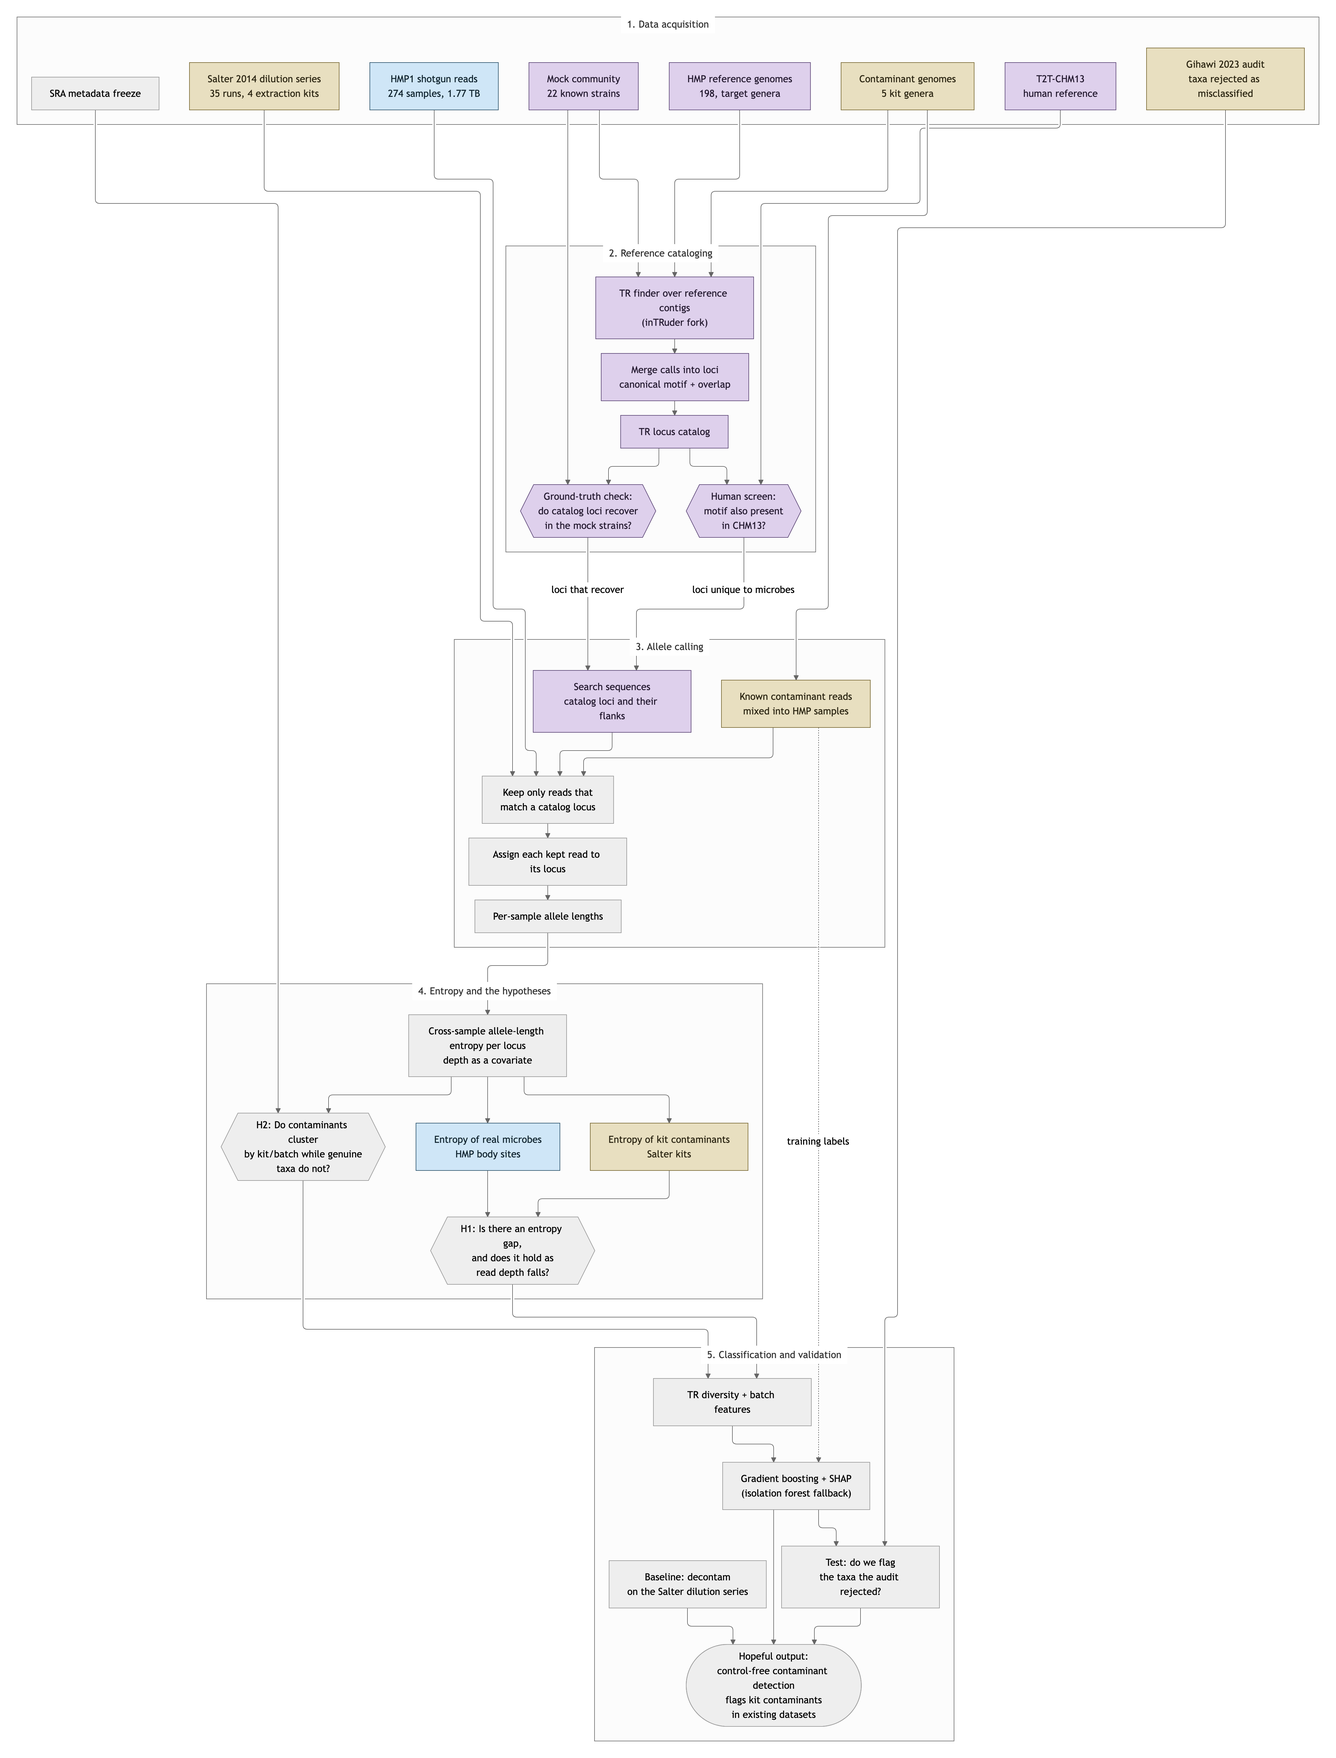
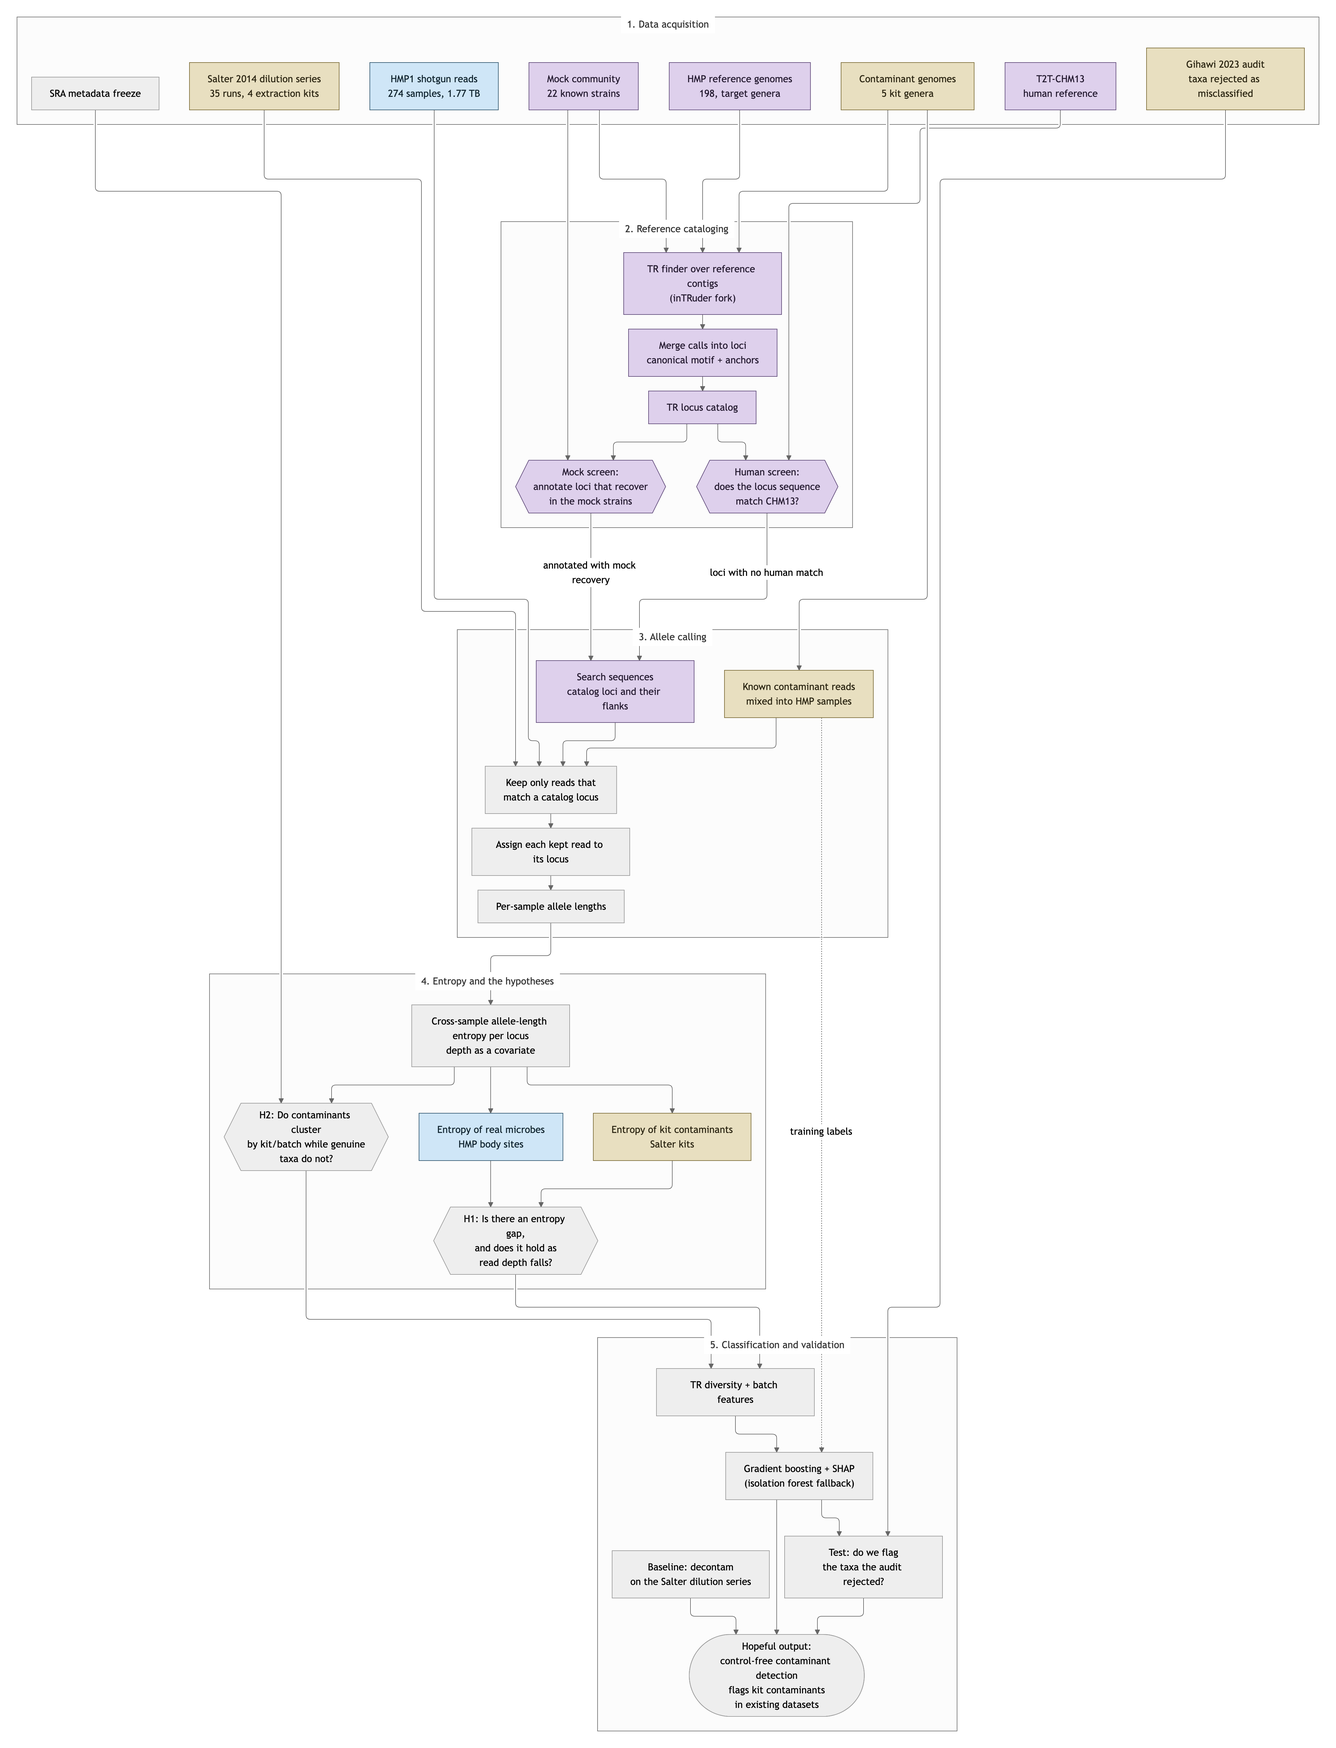
Docs: describe the catalog part and the mock screen as annotation

diff --git a/docs/workflows/pipeline/README.md b/docs/workflows/pipeline/README.md
@@ -1,9 +1,10 @@
 # The pipeline stage
 
-`--stage pipeline` is the analysis. Its first part streams the HMP1 shotgun reads from S3
-through a k-mer gate built from the TR catalog and keeps only the reads that touch a
-locus, plus per-sample read counts. Allele calling, the stutter model and everything after
-read that output; none of them exists yet (`docs/todo.md` §3).
+`--stage pipeline` is the analysis. Its first part, `catalog`, builds the panel of tandem
+repeat loci the gate looks for. Its second, `filter`, streams the HMP1 shotgun reads from
+S3 through a k-mer gate built from that panel and keeps only the reads that touch a locus,
+plus per-sample read counts. Allele calling, the stutter model and everything after read
+that output; none of them exists yet (`docs/todo.md` §3).
 
 ```sh
 pixi run pipeline --stage pipeline -profile slurm,apptainer --slurm_queue shared
@@ -41,12 +42,21 @@ Two properties of the tarballs shape the pipe:
 
 ## Modules
 
-| Process          | Image     | Does                                              | Publishes                          |
-| ---------------- | --------- | ------------------------------------------------- | ---------------------------------- |
-| `TR_CATALOG`     | `catalog` | The TR catalog, unless `--loci_catalog` names one | `results/filter/tr-catalog.tsv`    |
-| `TR_LOCI`        | `catalog` | Catalog loci ± `--filter_flank` bp → gate FASTA  | `results/filter/tr-loci.fa`        |
-| `TR_FILTER`      | `filter`  | One sample: stream, gate, write                   | `results/filter/{reads,counts}/`   |
-| `FILTER_SUMMARY` | `filter`  | Every sample's counts in one table                | `results/filter/filter-summary.tsv` |
+| Process          | Image     | Does                                                         | Publishes                                   |
+| ---------------- | --------- | ------------------------------------------------------------ | ------------------------------------------- |
+| `TR_CATALOG`     | `catalog` | One task per `--panel_specs` spec: its TR catalog and BED   | `results/catalog/tr-catalog.<spec>.{tsv,bed}` |
+| `TR_LOCI`        | `catalog` | Merge the catalogs into loci; anchors; padded FASTA          | `results/catalog/{tr-loci.tsv,tr-loci.fa,tr-loci-stats.tsv}` |
+| `TR_SCREEN`      | `filter`  | Screen the loci against a genome spec (run as two aliases)   | `results/catalog/<spec>.screen.tsv`         |
+| `TR_PANEL`       | `filter`  | Drop human-screened loci, annotate with the mock screen      | `results/catalog/{tr-panel.tsv,tr-panel.fa}` |
+| `TR_FILTER`      | `filter`  | One sample: stream, gate, write                              | `results/filter/{reads,counts}/`            |
+| `FILTER_SUMMARY` | `filter`  | Every sample's counts in one table                           | `results/filter/filter-summary.tsv`         |
+
+```
+catalog : TR_CATALOG (one task per panel spec) ─┐
+          TR_LOCI (merge + anchors + FASTA) ◄───┘
+          TR_SCREEN ×2 (chm13 = exclude, hmp-mock = annotate) → TR_PANEL
+filter  : TR_FILTER (one task per HMP sample, gate = tr-panel.fa) → FILTER_SUMMARY
+```
 
 The filter itself is three processes, which is as far as it divides. The one boundary that
 must not exist is between decompressing and gating, because a process emitting
@@ -54,25 +64,80 @@ decompressed FASTQ parks ~25 GB per sample in `work/`.
 
 ### `TR_CATALOG`
 
-The preprocessing stage's process (`docs/workflows/preprocess/`), run here with the same
-`catalog_*` parameters. The catalog is not committed, because its parameters are still
-being swept, so a clean clone has none. The stage builds it itself rather than depending on
-an earlier run. `--loci_catalog <tsv>` skips this and uses a catalog that already exists.
-The catalog is published beside the reference, so the reads can always be traced to the
-loci they were gated against.
+The preprocessing stage's process (`docs/workflows/preprocess/`), run here once per spec
+in `--panel_specs` with the same `catalog_*` parameters. Each task carries its own output
+names, `tr-catalog.<spec>.tsv` and `.bed`, so the specs do not publish over each other.
+Genomes are named by `--name-from auto`: a spec of the `hmp` dataset by directory (the
+organism is in the directory and the file name is an accession), any other by file (one
+genome per file, as slacken and CHM13 arrive).
 
 ### `TR_LOCI`
 
-Syncs the genomes of `--catalog_spec`, writes each locus of the catalog with
-`--filter_flank` bases either side, and deletes the genomes. The same sync, reduce, delete
-shape as `TR_CATALOG`, and the same genome naming, so each catalog row finds its FASTA.
-Genomes are read through inTRuder's `read_fasta`, the reader the catalog was built with, so
-the contig names agree by construction.
+Syncs the genomes of every panel spec, lists them with `genomes`, runs `loci` over all the
+catalogs at once, and deletes the genomes. The same sync, reduce, delete shape as
+`TR_CATALOG`, and the same genome naming, so each catalog row finds its FASTA. Genomes are
+read through inTRuder's `read_fasta`, the reader the catalogs were built with, so the
+contig names agree by construction.
 
-It is its own process, rather than a third output of `TR_CATALOG`, because the flank width
-belongs to the filter: the reference will be rebuilt more often than the catalog, and that
-should not rerun the finder. Records that come out byte-identical are written once. That
-keeps the k-mer table small; it is not the §2 locus merge.
+It is its own process because the merge needs every spec's calls together, and because
+`--filter_flank`, `--loci_anchor` and `--loci_max_rep_length` belong to the gate: it is
+rebuilt more often than the catalogs, and that should not rerun the finder. What `loci`
+does to turn calls into loci:
+
+- **Within a genome**, calls on one contig whose gap is smaller than `--loci_anchor` become
+  one locus spanning their union, so each anchor is free of called repeat. The locus
+  records `n_calls` and the canonical motifs of its calls; its motif is the canonical motif
+  of its longest call.
+- **Anchors** are the `--loci_anchor` bases immediately either side of the locus. A locus
+  whose anchor runs off its contig is dropped.
+- **Across genomes**, loci with the same canonical motif and anchor pair are one group and
+  share a `locus_id` (`L000001`, numbered in sorted key order, so a rerun gives the same
+  ids). The canonical motif folds rotation and reverse complement. The anchor pair is
+  oriented to the lexicographically smaller of `(left, right)` and
+  `(rc(right), rc(left))`, so a locus on the other strand lands in the same group.
+- **Too long to span:** a group whose longest member is longer than
+  `--loci_max_rep_length` is dropped. A 100 bp read minus two 20 bp anchors spans about 60
+  bp (see "A limit worth knowing").
+- Records that come out byte-identical within a group are written once, which keeps the
+  gate's k-mer table small.
+
+`tr-loci.tsv` has one row per member (`locus_id, spec, genome, contig, start, end, motif,
+motif_length, rep_length, purity, n_calls, motifs, left_anchor, right_anchor`), so a group
+has exactly one anchor pair. `tr-loci.fa` pads each member by `--filter_flank` bases, with
+headers `>{locus_id}|{genome}|{contig}:{left}-{right}`. `tr-loci-stats.tsv` counts calls,
+merged regions, edge drops, too-long groups, groups and members, in total and per spec.
+
+### `TR_SCREEN`
+
+Cuts one spec's genomes into `--screen_fragment` bp fragments overlapping by
+`--screen_overlap` (`shred.sh`) and runs them through the same BBDuk match that gates the
+reads, at `--filter_k` and `--filter_hdist`. So a locus a fragment hits is a locus a read
+of that genome would pass the gate through. `bbduk.sh rename=t` appends each matched
+reference, with its k-mer hit count, to the fragment's header, tab separated:
+
+```
+>chrT desc_100-199<TAB>L000001|g1|c1:0-144=26
+>c_0-99<TAB>L000007|a|c:0-1=16<TAB>L000009|b|c:0-1=6
+```
+
+`screen` reads those headers from the pipe and writes `locus_id` and `fragments`, counting
+each locus once per fragment. One bbduk run takes every genome's fragments, so its k-mer
+table is built once, and the fragments themselves are never stored. bbduk credits a k-mer
+that several references share to the first one loaded, so a fragment is only credited to
+the loci that own the k-mers it hit.
+
+It runs twice, by alias, over `--screen_human_spec` (CHM13) and `--screen_mock_spec` (the
+mock community), under the `screen` label (4 CPUs, 8 GB, 12 h).
+
+### `TR_PANEL`
+
+Joins `tr-loci.tsv` with both screens. A group a human fragment hits is excluded: a read
+that matches it cannot be told from host. The mock screen **annotates only**. Most target
+genera and every kit genus are not in the mock community, so filtering on it would drop
+most of the panel; a locus with no mock hit is the usual case, not a failed one.
+`tr-panel.tsv` is the `tr-loci.tsv` columns of the kept loci plus `human_fragments` and
+`mock_fragments`, and `tr-panel.fa` is their records from `tr-loci.fa`: the gate's
+reference.
 
 ### `TR_FILTER`
 
@@ -114,32 +179,36 @@ sample are the depth covariate §4 needs; the pass fraction decides the disk bud
 
 `--pipeline` picks the part, like `--preprocess`:
 
-| `--pipeline` | Runs                                                                 |
-| ------------ | -------------------------------------------------------------------- |
-| `all`        | Everything, the catalog feeding the reference feeding the filter     |
-| `loci`       | The catalog and `TR_LOCI` only                                       |
-| `filter`     | `TR_FILTER` and the summary, against the published `tr-loci.fa`      |
-| `summary`    | `FILTER_SUMMARY` over the published counts                          |
+| `--pipeline` | Runs                                                                         |
+| ------------ | ---------------------------------------------------------------------------- |
+| `all`        | `catalog`, then `filter` against the panel it built                          |
+| `catalog`    | The catalogs, `TR_LOCI`, both screens and `TR_PANEL`                         |
+| `filter`     | `TR_FILTER` and the summary, against the published `results/catalog/tr-panel.fa` |
 
 | Parameter              | Default              | Meaning                                         |
 | ---------------------- | -------------------- | ----------------------------------------------- |
-| `loci_catalog`         | null                 | An existing catalog; null builds one            |
-| `filter_flank`         | 50                   | Bases kept either side of each locus            |
+| `panel_specs`          | `reference/hmp-target,reference/kit` | Comma-separated specs under `manifests/`, one catalog each |
+| `loci_anchor`          | 20                   | Anchor length; calls closer than this merge     |
+| `loci_max_rep_length`  | 60                   | Groups with a longer member are dropped         |
+| `filter_flank`         | 50                   | Bases kept either side of each locus in the reference |
+| `screen_human_spec`    | `reference/chm13`    | The spec whose hits exclude a locus             |
+| `screen_mock_spec`     | `reference/hmp-mock` | The spec whose hits annotate a locus            |
+| `screen_fragment`, `screen_overlap` | 100, 50 | Fragment length and overlap                     |
 | `filter_body_sites`    | `subgingival-plaque` | Comma-separated lockfiles under `manifests/hmp/` |
 | `filter_sample_locks`  | null                 | A glob of lockfiles; overrides the body sites   |
-| `filter_k`, `filter_hdist` | 25, 1            | bbduk's k-mer length and Hamming distance       |
+| `filter_k`, `filter_hdist` | 25, 1            | bbduk's k-mer length and Hamming distance, for the gate and the screens |
 | `filter_threads`       | 2                    | bbduk's threads; the decompressor gets the rest |
 | `filter_decompressor`  | `lbzip2`             | `bzip2` is the single-core fallback             |
 | `filter_max_reads`     | null                 | Hits written per sample before writing stops    |
 
-The catalog is built from `--catalog_spec`, the mock community by default. That is enough
-to check the machinery. The target-genus and contaminant catalogs are §2 work and arrive
-through `--catalog_spec` with nothing here changing.
+The catalogs use the `catalog_*` finder settings, shared with `--stage preprocess`. The
+target-genus catalog, the kit catalog and the mock screen all arrive through `panel_specs`
+and the `screen_*_spec` parameters with nothing here changing.
 
 ## Disk
 
-Decompressed FASTQ never lands. The genomes `TR_LOCI` syncs are 470 MB at most, deleted
-within the task. What stays is the published reads, and their size is set by the one
+Decompressed FASTQ never lands. The genomes `TR_LOCI` and `TR_SCREEN` sync (CHM13 is 982
+MB) are deleted within their task. What stays is the published reads, and their size is set by the one
 unknown, the pass fraction: ~22 GB over all 274 samples at 1%, ~110 GB at 5%. Publishing by
 copy doubles that until `work/` is cleaned.
 
@@ -165,3 +234,4 @@ pixi run test-workflow              # the modules stubbed, and the whole stage s
 ```
 
 `loci`'s tests skip in the default environment, which has neither inTRuder nor pyfastx.
+`screen` and `panel` need neither.

diff --git a/docs/documents/flowchart.md b/docs/documents/flowchart.md
@@ -22,10 +22,10 @@ flowchart TD
 
     subgraph CATALOG["2. Reference cataloging"]
         FIND["TR finder over reference contigs<br/>(inTRuder fork)"]
-        MERGE["Merge calls into loci<br/>canonical motif + overlap"]
+        MERGE["Merge calls into loci<br/>canonical motif + anchors"]
         CAT["TR locus catalog"]
-        SELFCHK{{"Ground-truth check:<br/>do catalog loci recover<br/>in the mock strains?"}}
-        HUMSCR{{"Human screen:<br/>motif also present<br/>in CHM13?"}}
+        SELFCHK{{"Mock screen:<br/>annotate loci that recover<br/>in the mock strains"}}
+        HUMSCR{{"Human screen:<br/>does the locus sequence<br/>match CHM13?"}}
     end
 
     subgraph MEASURE["3. Allele calling"]
@@ -60,8 +60,8 @@ flowchart TD
     CAT --> SELFCHK
     CHM13 --> HUMSCR
     CAT --> HUMSCR
-    SELFCHK -->|"loci that recover"| GATE
-    HUMSCR -->|"loci unique to microbes"| GATE
+    SELFCHK -->|"annotated with mock recovery"| GATE
+    HUMSCR -->|"loci with no human match"| GATE
 
     HMP --> STREAM
     SALT --> STREAM
@@ -96,11 +96,11 @@ flowchart TD
     class REFG,MOCK,CHM13,FIND,MERGE,CAT,SELFCHK,HUMSCR,GATE reference
 ```
 
-A rendered copy of the same diagram is in `docs/flowchart.png`, for viewers that do
-not draw Mermaid. Rebuild it after editing the block above:
+A rendered copy of the same diagram is in `docs/documents/flowchart.png`, for viewers that
+do not draw Mermaid. Rebuild it after editing the block above:
 
 ```sh
-docs/render-flowchart.sh docs/flowchart.md docs/flowchart.png 2
+docs/documents/render-flowchart.sh docs/documents/flowchart.md docs/documents/flowchart.png 2
 ```
 
 The script drives the local Chrome in headless mode: it renders the Mermaid block with
@@ -116,10 +116,12 @@ engine, so the page and the PNG route their edges differently.
   diversity). Tan is the contaminant side (Salter's kits, the clonal spike-ins, the known
   false positives). Purple is reference material — the genomes that say *where* to look,
   and the screens that decide which loci are trustworthy.
-- **The two hexagons in lane 2 are checks, not steps.** Everything downstream is
-  conditional on them: a locus that does not recover in genomes of known strains is a
-  finder artifact, and a motif that also occurs in human cannot separate contamination
-  from host — that is the same confusion one level down.
+- **The two hexagons in lane 2 are screens, not steps.** Everything downstream is
+  conditional on them. The human screen excludes: a locus whose sequence also occurs in
+  human cannot separate contamination from host — that is the same confusion one level
+  down. The mock screen only annotates, with whether the locus recovers in genomes of known
+  strains: most target genera and every kit genus are not in the mock community, so
+  filtering on it would drop most of the panel.
 - **Lane 3 never lands the data.** The HMP samples are ~6.5 TB decompressed, so each is
   read, unpacked and filtered in a single pass on the cluster, and only locus-hitting
   reads are kept.
@@ -128,8 +130,7 @@ engine, so the page and the PNG route their edges differently.
 
 ## State of play
 
-Lanes 1–3 are partly built: data acquisition and the streaming read filter exist, the TR
-finder runs over reference genomes, and the mock-community catalog has been built once.
-The locus merge, the human screen, allele calling, the stutter model, entropy, both
-hypothesis tests and the classifier do not exist yet — `--stage pipeline` stops after the
-read filter. `docs/todo.md` tracks each box.
+Lanes 1–3 are partly built: data acquisition, the TR finder, the locus merge, both screens
+and the streaming read filter exist (`--stage pipeline`, `--pipeline catalog` then
+`filter`). Anchoring reads to loci, allele calling, the stutter model, entropy, both
+hypothesis tests and the classifier do not exist yet. `docs/todo.md` tracks each box.

diff --git a/docs/HPC/RUNNING.md b/docs/HPC/RUNNING.md
@@ -94,24 +94,26 @@ What the stage builds is in `docs/workflows/preprocess/`.
 
 ## The read filter
 
-`--stage pipeline` builds the TR catalog and the filter's reference from the mock
-community, then streams each HMP sample from S3 through the filter, one array task per
-sample. What it runs and why is in `docs/workflows/pipeline/`.
+`--stage pipeline` has two parts. `--pipeline catalog` builds the panel of TR loci: one
+catalog per spec in `--panel_specs`, merged into loci, screened against CHM13 and the mock
+community. `--pipeline filter` then streams each HMP sample from S3 through a gate built
+from the panel, one array task per sample. The default, `all`, runs both. What they run and
+why is in `docs/workflows/pipeline/`.
 
-**Before the first run, refresh the images.** The run needs the `filter` image and a
-`catalog` image new enough to have the `loci` subcommand. Run the Containers workflow in
-GitHub Actions on the pushed commit, then delete any `catalog` image Apptainer already
-converted: images are pulled by the `latest` tag, and a cached copy is reused rather than
-pulled again.
+**Before the first run, refresh the images.** The run needs `catalog` and `filter` images
+new enough to have the `loci`, `screen` and `panel` subcommands. Run the Containers workflow
+in GitHub Actions on the pushed commit, then delete any `catalog` and `filter` image
+Apptainer already converted: images are pulled by the `latest` tag, and a cached copy is
+reused rather than pulled again.
 
 ```sh
-rm -f "${NXF_APPTAINER_CACHEDIR:-work/singularity}"/*project-catalog-latest*
+rm -f "${NXF_APPTAINER_CACHEDIR:-work/singularity}"/*project-{catalog,filter}-latest*
 ```
 
 Then, from the clone:
 
 ```sh
-# 1. the plaque pilot, everything: catalog, reference, 7 samples, summary
+# 1. the plaque pilot, everything: catalogs, panel, 7 samples, summary
 sbatch -p shared -c 1 --mem=4G -t 1-00:00:00 -J nf-filter -o nf-filter-%j.log \
   --wrap "pixi run pipeline --stage pipeline -profile slurm,apptainer \
           --slurm_queue shared -ansi-log false -resume"
@@ -121,7 +123,8 @@ column -t results/filter/filter-summary.tsv
 ```
 
 Then the rest, a site or two at a time, by what the pass fraction projects for disk. The
-catalog and reference are cached, so `-resume` goes straight to the new samples:
+panel is cached, so `-resume` goes straight to the new samples; `--pipeline filter` alone
+does the same from the `results/catalog/tr-panel.fa` an earlier run published:
 
 ```sh
 sbatch -p shared -c 1 --mem=4G -t 2-00:00:00 -J nf-filter -o nf-filter-%j.log \
